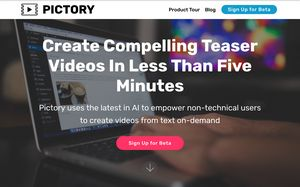
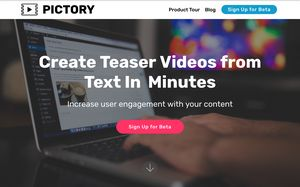
added form
zoho beta

Changed region(s): [[0.12, 0.1872, 0.87, 0.508], [0.12, 0.5348, 0.87, 0.8289]]

diff --git a/zoho-beta.html b/zoho-beta.html
@@ -72,303 +72,11 @@
     </nav>
 </section>
 
-<section class="engine"><a href="https://mobirise.info/e">make your own website</a></section><div id="custom-html-2n"><!-- Type valid HTML here -->
-!--Zoho Campaigns Web-Optin Form's Header Code Starts Here--&gt;
+<section class="engine"><a href="https://mobirise.info/v">free html templates</a></section><div id="custom-html-2p"><!-- Type valid HTML here -->
 
-<meta content="width=device-width,initial-scale=1.0, maximum-scale=1.0, user-scalable=0" name="viewport">
-<script type="text/javascript" src="https://bsau.maillist-manage.com/js/optin.min.js" onload="setupSF('sfdd078da0e9f3d8712321bc73102a2920e9338e26dd31f874','ZCFORMVIEW',false,'acc',false,'2')"></script>
-<script type="text/javascript">
-	function runOnFormSubmit_sfdd078da0e9f3d8712321bc73102a2920e9338e26dd31f874(th){
-		/*Before submit, if you want to trigger your event, "include your code here"*/
-	};
-</script>
-
-<style>
-#sfdd078da0e9f3d8712321bc73102a2920e9338e26dd31f874 #customForm *:not(.dateClass){
--webkit-box-sizing: border-box !important;
--moz-box-sizing: border-box !important;
-box-sizing: border-box !important;
-word-break:break-word;
-overflow-wrap: break-word;
-}
-#sfdd078da0e9f3d8712321bc73102a2920e9338e26dd31f874 .dateClass{
--webkit-box-sizing: unset!important;
--moz-box-sizing: unset !important;
-box-sizing: unset !important;
-word-break:break-word;
-overflow-wrap: break-word;
-}
-/*** RESPONSIVE START */
-@media only screen and (max-width: 319px){
-#sfdd078da0e9f3d8712321bc73102a2920e9338e26dd31f874 #signupMainDiv{
-width:220px !important;
-min-width:220px !important;
-margin: 0px auto !important;
-}
-#sfdd078da0e9f3d8712321bc73102a2920e9338e26dd31f874 #SIGNUP_PAGE{
-padding:0px !important	
-}
-#sfdd078da0e9f3d8712321bc73102a2920e9338e26dd31f874 [changeitem="SIGNUP_FORM_FIELD"]{
-width:94% !important;
-}
-#sfdd078da0e9f3d8712321bc73102a2920e9338e26dd31f874 .zcinputbox{
-width:100% !important;
-max-width:100% !important;
-float:none !important;
-}
-#sfdd078da0e9f3d8712321bc73102a2920e9338e26dd31f874 #captchaDiv{
-width:69.5% !important;
-}
-#sfdd078da0e9f3d8712321bc73102a2920e9338e26dd31f874 #relCaptcha{
-margin-right:11px !important;
-}
-#sfdd078da0e9f3d8712321bc73102a2920e9338e26dd31f874 .recaptcha{
-transform:scale(0.55);-webkit-transform:scale(0.55);transform-origin:0 0;-webkit-transform-origin:0 0;}
-}
-/*Major Mobiles*/
-@media screen and (min-width: 320px) and (max-width: 580px){
-#sfdd078da0e9f3d8712321bc73102a2920e9338e26dd31f874 #signupMainDiv{
-width:280px !important;
-min-width:280px !important;
-margin: 0px auto !important;
-}
-#sfdd078da0e9f3d8712321bc73102a2920e9338e26dd31f874 .zcinputbox{
-width:100% !important;
-max-width:100% !important;
-float:none !important;
-}
-#sfdd078da0e9f3d8712321bc73102a2920e9338e26dd31f874 [changeitem="SIGNUP_FORM_FIELD"]{
-width:95% !important;
-}
-#sfdd078da0e9f3d8712321bc73102a2920e9338e26dd31f874 #captchaDiv{
-width:72% !important;
-}
-#sfdd078da0e9f3d8712321bc73102a2920e9338e26dd31f874 #captchaText{
-width:96% !important;
-}
-#sfdd078da0e9f3d8712321bc73102a2920e9338e26dd31f874 #relCaptcha{
-margin-right:6px !important;
-}
-#sfdd078da0e9f3d8712321bc73102a2920e9338e26dd31f874 #capRequired{
-margin-right: -10px !important;
-}
-#sfdd078da0e9f3d8712321bc73102a2920e9338e26dd31f874 .recaptcha{
-transform:scale(0.72);-webkit-transform:scale(0.75);transform-origin:0 0;-webkit-transform-origin:0 0;}
-}
-@media screen and (min-width:581px) and (max-width: 767px){
-#sfdd078da0e9f3d8712321bc73102a2920e9338e26dd31f874 #signupMainDiv{
-width:440px !important;
-min-width:440px !important;
-margin: 0px auto !important;
-}
-#sfdd078da0e9f3d8712321bc73102a2920e9338e26dd31f874 .zcinputbox{
-width:100% !important;
-max-width:100% !important;
-float:none !important;
-}
-#sfdd078da0e9f3d8712321bc73102a2920e9338e26dd31f874 [changeitem="SIGNUP_FORM_FIELD"]{
-width:95% !important;
-}
-#sfdd078da0e9f3d8712321bc73102a2920e9338e26dd31f874 #captchaDiv{
-width:84.4% !important;
-}
-#sfdd078da0e9f3d8712321bc73102a2920e9338e26dd31f874 #captchaText{
-width:96% !important;
-}
-#sfdd078da0e9f3d8712321bc73102a2920e9338e26dd31f874 #relCaptcha{
-margin-right:14px !important;
-}
-#sfdd078da0e9f3d8712321bc73102a2920e9338e26dd31f874 #capRequired{
-margin-right: -10px !important;
-}
-#sfdd078da0e9f3d8712321bc73102a2920e9338e26dd31f874 .recaptcha{
-transform:scale(1.13);-webkit-transform:scale(1.0);margin-bottom:40px;transform-origin:0 0;-webkit-transform-origin:0 0;}
-}
-/* Desktops and laptops ----------- */
-@media only screen  and (min-width : 1025px) {
-#sfdd078da0e9f3d8712321bc73102a2920e9338e26dd31f874 #signupMainDiv{
-width:600px !important;
-min-width:600px !important;
-margin: 0px auto !important;	
-}
-#sfdd078da0e9f3d8712321bc73102a2920e9338e26dd31f874 .recaptcha{
-transform:scale(1.03);-webkit-transform:scale(1.08);transform-origin:0 0;-webkit-transform-origin:0 0;}
-}
-/* Large Screens */
-@media only screen  and (min-width : 1824px) {
-#sfdd078da0e9f3d8712321bc73102a2920e9338e26dd31f874 #signupMainDiv{
-width:600px !important;
-min-width:600px !important;
-margin: 0px auto !important;	
-}
-#sfdd078da0e9f3d8712321bc73102a2920e9338e26dd31f874 .recaptcha{
-transform:scale(1.03);-webkit-transform:scale(1.08);transform-origin:0 0;-webkit-transform-origin:0 0;}
-}
-@media only screen and (min-device-width: 1200px) and (max-device-width:1200px){
-#sfdd078da0e9f3d8712321bc73102a2920e9338e26dd31f874 #signupMainDiv{
-width:600px !important;
-min-width:600px !important;
-margin: 0px auto !important;
-}
-}
-/* iPads*/
-@media only screen and (min-width : 768px) and (max-width : 1024px){
-#sfdd078da0e9f3d8712321bc73102a2920e9338e26dd31f874 #signupMainDiv{
-width:500px !important;
-min-width:240px !important;
-margin: 0px auto !important;
-}
-#sfdd078da0e9f3d8712321bc73102a2920e9338e26dd31f874 #captchaDiv{
-width:86.8% !important;
-}
-#sfdd078da0e9f3d8712321bc73102a2920e9338e26dd31f874 #relCaptcha{
-margin-right:12px !important;
-}
-#sfdd078da0e9f3d8712321bc73102a2920e9338e26dd31f874 .recaptcha{
-transform:scale(0.90);-webkit-transform:scale(0.90);transform-origin:50% 50%;-webkit-transform-origin:0 0;}
-}
-/*** RESPONSIVE END */
-#sfdd078da0e9f3d8712321bc73102a2920e9338e26dd31f874 .bdr_btm_hover{background-color:#f9f9f9; padding:10px;}
-#sfdd078da0e9f3d8712321bc73102a2920e9338e26dd31f874 .bdr_btm{padding:10px }
-#sfdd078da0e9f3d8712321bc73102a2920e9338e26dd31f874 .f14{font-size:14px}
-
-</style>
-
-<!--Zoho Campaigns Web-Optin Form's Header Code Ends Here--><!--Zoho Campaigns Web-Optin Form Starts Here-->
-
-<div id="sfdd078da0e9f3d8712321bc73102a2920e9338e26dd31f874" data-type="signupform">
-	<div id="customForm">
-		<input type="hidden" id="recapTheme" value="2">
-		<input type="hidden" id="isRecapIntegDone" value="false">
-		<input type="hidden" id="recapMode" value="657605000000069158">
-		<input type="hidden" id="signupFormType" value="LargeForm_Vertical">
-		<div name="SIGNUP_PAGE" id="SIGNUP_PAGE" class="SIGNUP_PAGE large_form_2_css" style="background-color: rgb(102, 102, 102); color: rgb(204, 204, 204); padding: 30px; font-size: 14px; font-family: Arial; min-width: 240px; text-align: center;">
-			<div>
-				<div name="" changeid="" changename="" style="margin:0px auto">
-					<div id="imgBlock" name="LOGO_DIV" logo="true" style="width: 600px; margin: 0px auto; padding-top: 10px; padding-bottom: 10px; padding-right: 10px; text-align: left;"></div>
-				</div>
-				<br>
-				<div id="signupMainDiv" style="margin: 0px auto; width: 100%; min-width: 230px; max-width: 600px;" name="SIGNUPFORM" changeid="SIGNUPFORM" changename="SIGNUPFORM">
-					<div>
-						<div style="position:relative;">
-							<div id="Zc_SignupSuccess" style="display:none;position:absolute;margin-left:4%;width:90%;background-color: white; padding: 3px; border: 3px solid rgb(194, 225, 154);  margin-top: 10px;margin-bottom:10px;word-break:break-all">
-								<table width="100%" cellpadding="0" cellspacing="0" border="0">
-									<tbody>
-										<tr>
-											<td width="10%">
-												<img class="successicon" src="https://bsau.maillist-manage.com/images/challangeiconenable.jpg" align="absmiddle">
-											</td>
-											<td>
-												<span id="signupSuccessMsg" style="color: rgb(73, 140, 132); font-family: sans-serif; font-size: 14px;word-break:break-word">&nbsp;&nbsp;Thank you for Signing Up</span>
-											</td>
-										</tr>
-									</tbody>
-								</table>
-							</div>
-						</div>
-						<form method="POST" id="zcampaignOptinForm" style="margin:0px;" action="https://bsau.maillist-manage.com/weboptin.zc" target="_zcSignup">
-							<div id="SIGNUP_BODY_ALL" name="SIGNUP_BODY_ALL" style="border: 1px none rgb(218, 216, 216);">
-								<h1 style="color: rgb(255, 255, 255); background-color: rgb(153, 153, 153); word-break: break-word; overflow-wrap: break-word; margin: 0px; padding: 20px; font-family: Arial; border-width: 1px; border-style: none; border-color: rgb(28, 69, 135); font-size: 17px; text-align: center;" id="SIGNUP_HEADING" name="SIGNUP_HEADING" changeid="SIGNUP_MSG" changetype="SIGNUP_HEADER">Pictory is in limited Beta now. Please sign up for Beta here.</h1>
-								<div style="background-color: rgb(255, 255, 255); color: rgb(68, 68, 68); padding: 20px; bottom: 2px; font-size: 11px; font-family: Arial; text-align: center; opacity: 1;" id="SIGNUP_BODY" name="SIGNUP_BODY">
-									<div style="margin:0px auto;text-align:left;">
-										<div style="line-height:1.6;" class="" changeid="SIGNUP_MSG" id="SIGNUP_DESCRIPTION" changetype="SIGNUP_DESCRIPTION"></div>
-										<div style="display:none;background-color:#FFEBE8;padding:10px 10px; color:#d20000; font-size:11px; margin:10px 0px;border:solid 1px #ffd9d3; margin-top:20px;" id="errorMsgDiv">&nbsp;&nbsp;Please correct the marked field(s) below.</div>
-										<div>
-											<div style="font-size:12px;  margin-top:10px;" name="fieldsdivSf" class="zcsffieldsdiv">
-												<div style="padding:10px 0px 10px 0px;" class="zcsffield " fieldid="657605000000000021">
-													<div style="">
-														<div style="color: rgb(51, 51, 51); font-size: 12px; font-family: Arial;" name="SIGNUP_FORM_LABEL">Email&nbsp;
-															<span name="SIGNUP_REQUIRED" style="color: rgb(180, 0, 0); font-size: 11px; font-family: Arial, Helvetica, sans-serif;">*</span>
-														</div>
-														<div style="width:100%;  min-width:170px; margin-top:5px;"><!-- check to mark emailid field as type email, and other mandatory fields as type required -->
-															<input name="CONTACT_EMAIL" changeitem="SIGNUP_FORM_FIELD" style="width: 97%; color: rgb(68, 68, 68); background-color: rgb(255, 255, 255); height: 28px; padding: 2px; border: 1px solid rgb(222, 222, 222); font-family: Arial; text-indent: 5px; box-sizing: border-box; font-size: 12px;" maxlength="100" type="email" required="true" value="">
-															<span style="display:none" id="dt_CONTACT_EMAIL">1,true,6,Contact Email,2</span>
-														</div>
-													</div>
-													
-													
-													<div style="clear:both"></div>
-												
-												
-												</div>
-												<div style="padding:10px 0px 10px 0px;" class="zcsffield " fieldid="657605000000000023">
-													<div style="">
-														<div style="color: rgb(51, 51, 51); font-size: 12px; font-family: Arial;" name="SIGNUP_FORM_LABEL">First Name&nbsp;</div>
-														<div style="width:100%;  min-width:170px; margin-top:5px;"><!-- check to mark emailid field as type email, and other mandatory fields as type required -->
-															<input name="FIRSTNAME" changeitem="SIGNUP_FORM_FIELD" style="width: 97%; color: rgb(68, 68, 68); background-color: rgb(255, 255, 255); height: 28px; padding: 2px; border: 1px solid rgb(222, 222, 222); font-family: Arial; text-indent: 5px; box-sizing: border-box; font-size: 12px;" maxlength="100" type="text" value="">
-															<span style="display:none" id="dt_FIRSTNAME">1,false,1,First Name,2</span>
-														</div>
-													</div><div style="clear:both"></div></div>
-												<div style="padding:10px 0px 10px 0px;" class="zcsffield " fieldid="657605000000000025">
-													<div style="">
-														<div style="color: rgb(51, 51, 51); font-size: 12px; font-family: Arial;" name="SIGNUP_FORM_LABEL">Last Name&nbsp;</div>
-														<div style="width:100%;  min-width:170px; margin-top:5px;"><!-- check to mark emailid field as type email, and other mandatory fields as type required -->
-															<input name="LASTNAME" changeitem="SIGNUP_FORM_FIELD" style="width: 97%; color: rgb(68, 68, 68); background-color: rgb(255, 255, 255); height: 28px; padding: 2px; border: 1px solid rgb(222, 222, 222); font-family: Arial; text-indent: 5px; box-sizing: border-box; font-size: 12px;" maxlength="100" type="text" value="">
-															<span style="display:none" id="dt_LASTNAME">1,false,1,Last Name,2</span>
-														</div>
-													</div><div style="clear:both"></div></div>
-											</div><!-- Captcha for Signup -->
-											<div class="recaptcha" style="padding: 10px 0px 10px 10px;display:none " id="captchaOld" name="captchaContainer">
-												<div style="">
-													<div style="width: 59%; float: left; min-width: 170px; max-width: 70%;" id="captchaParent">
-														<img src="assets/images/refresh-icon.png" style="cursor: pointer;float:right;margin-right:4px" onclick="loadCaptcha('https://campaigns.zoho.com/campaigns/CaptchaVerify.zc?mode=generate',this);" id="relCaptcha">
-														<div id="captchaDiv" captcha="true" name="" style="padding: 20px;background:#fff;border: 1px solid rgb(222, 222, 222);box-sizing: border-box;width:98.8%"></div>
-														<input placeholder="Captcha" id="captchaText" name="captchaText" changeitem="SIGNUP_FORM_FIELD" style="margin-top: 5px; width: 98.7%; color: rgb(68, 68, 68); background-color: rgb(255, 255, 255); height: 28px; padding: 2px; border: 1px solid rgb(222, 222, 222); font-family: Arial; text-indent: 5px; box-sizing: border-box; font-size: 12px;" maxlength="100" type="text">
-														<span name="SIGNUP_REQUIRED" id="capRequired" style="color: rgb(180, 0, 0); margin-top: -16px; margin-right: -2px; float: right; font-size: 11px; font-family: Arial, Helvetica, sans-serif;">*</span>
-													</div>
-												</div>
-												<div style="clear: both"></div>
-											</div><!-- <script>var captchaPath =  "https://campaigns.zoho.com/campaigns/CaptchaVerify.zc?mode=generate";var elm = $("#captchaDiv");loadCaptcha(captchaPath,elm);</script>-->
-											<input type="hidden" id="secretid" value="6LdNeDUUAAAAAG5l7cJfv1AA5OKLslkrOa_xXxLs"><!-- Captcha for Signup End--><!-- Other Lists Subscription Start--><!-- Other Lists Subscription End-->
-											<div style=" border-bottom:#ebebeb dotted 1px; margin-top:10px; clear:both;"></div>
-											<div id="REQUIRED_FIELD_TEXT" changetype="REQUIRED_FIELD_TEXT" name="SIGNUP_REQUIRED" style="color: rgb(180, 0, 0); padding: 10px 10px 10px 0px; font-size: 11px; font-family: Arial, Helvetica, sans-serif;">*Required Fields</div>
-											<div name="privacyPolicy" style=" padding:10px;width:100%;position:relative">
-												<input type="checkbox" style="vertical-align:middle" name="PRIVACY_POLICY" value="PRIVACY_AGREED">
-												<span style="vertical-align:middle;margin-left:5px">I agree to the&nbsp;
-													<a href="https://www.pictory.ai/policy.html" target="_blank" style="text-decoration:none">Privacy Policy</a>&nbsp;and&nbsp;
-													<a href="https://www.pictory.ai/terms.html" target="_blank" style="text-decoration:none">Terms of Use</a>&nbsp;</span>
-											</div>
-											<div style="padding:10px; text-align:center;">
-												<input type="submit" action="Save" id="zcWebOptin" name="SIGNUP_SUBMIT_BUTTON" changetype="SIGNUP_SUBMIT_BUTTON_TEXT" style="cursor: pointer; -webkit-appearance: none; color: rgb(255, 255, 255); background-color: rgb(7, 55, 99); background-position: center bottom; background-repeat: repeat-x; outline: none medium; font-family: Arial; border-radius: 3px; font-size: 14px; border-color: rgb(7, 55, 99); border-width: 5px; border-style: solid; padding: 5px 15px; text-align: center;" value="Submit Request">
-											</div><!-- Do not edit the below Zoho Campaigns hidden tags -->
-											<input type="hidden" id="fieldBorder" value="">
-											<input type="hidden" name="zc_trackCode" id="zc_trackCode" value="ZCFORMVIEW" onload="">
-											<input type="hidden" name="viewFrom" id="viewFrom" value="URL_ACTION">
-											<input type="hidden" id="submitType" name="submitType" value="optinCustomView">
-											<input type="hidden" id="lD" name="lD" value="192048436b85fc66">
-											<input type="hidden" name="emailReportId" id="emailReportId" value="">
-											<input type="hidden" name="zx" id="cmpZuid" value="12a5c4492">
-											<input type="hidden" name="zcvers" value="3.0">
-											<input type="hidden" name="oldListIds" id="allCheckedListIds" value="">
-											<input type="hidden" id="mode" name="mode" value="OptinCreateView">
-											<input type="hidden" id="zcld" name="zcld" value="192048436b85fc66">
-											<input type="hidden" id="zctd" name="zctd" value="">
-											<input type="hidden" id="document_domain" value="">
-											<input type="hidden" id="zc_Url" value="bsau.maillist-manage.com">
-											<input type="hidden" id="new_optin_response_in" value="0">
-											<input type="hidden" id="duplicate_optin_response_in" value="0">
-											<input type="hidden" id="zc_formIx" name="zc_formIx" value="dd078da0e9f3d8712321bc73102a2920e9338e26dd31f874"><!-- End of the campaigns hidden tags --></div>
-									</div>
-									<input type="hidden" id="isCaptchaNeeded" value="false">
-									<input type="hidden" id="superAdminCap" value="0">
-									<img src="https://bsau.maillist-manage.com/images/spacer.gif" onload="referenceSetter(this)" id="refImage" style="display:none;">
-								</div>
-							</div>
-						</form>
-					</div>
-				</div>
-			</div>
-		</div>
-	</div>
-</div>
-<div id="zcOptinOverLay" oncontextmenu="return false" style="display:none;text-align: center; background-color: rgb(0, 0, 0); opacity: 0.5; z-index: 100; position: fixed; width: 100%; top: 0px; left: 0px; height: 988px;"></div>
-<div id="zcOptinSuccessPopup" style="display:none;z-index: 9999;width: 800px; height: 40%;top: 84px;position: fixed; left: 26%;background-color: #FFFFFF;border-color: #E6E6E6; border-style: solid; border-width: 1px;  box-shadow: 0 1px 10px #424242;padding: 35px;">
-	<span style="position: absolute;top: -16px;right:-14px;z-index:99999;cursor: pointer;" id="closeSuccess">
-		<img src="https://bsau.maillist-manage.com/images/videoclose.png">
-	</span>
-	<div id="zcOptinSuccessPanel"></div>
-</div>
-</div>
+<div>
+   <iframe frameborder="0" style="height:600px;width:99%;border:none;" src="https://forms.zohopublic.com/pictorycorp/form/BetaSignUp/formperma/XwbKsXoL7qczekDer5LoXMZXbLjGENE6x6fTw5DSwAA"></iframe>
+</div></div>
 
 <section class="footer4 cid-rTrVGtC3mW" id="footer4-2m">
 

diff --git a/beta_signup.html b/beta_signup.html
@@ -72,7 +72,7 @@
     </nav>
 </section>
 
-<section class="engine"><a href="https://mobirise.info/o">free portfolio website templates</a></section><section class="mbr-section form1 cid-rT9JGPLCGd" id="form1-19">
+<section class="engine"><a href="https://mobirise.info/y">free html site templates</a></section><section class="mbr-section form1 cid-rT9JGPLCGd" id="form1-19">
 
     
 
@@ -91,7 +91,7 @@
         <div class="row justify-content-center">
             <div class="media-container-column col-lg-8" data-form-type="formoid">
                 <!---Formbuilder Form--->
-                <form action="https://mobirise.com/" method="POST" class="mbr-form form-with-styler" data-form-title="Mobirise Form"><input type="hidden" name="email" data-form-email="true" value="pK99jzOm1UnQ1Xh2BA52omthRwjeeH/IyUQkkwDGJpp9ZDWs5Gqxr/agQnTDM1buuopsxkbPWAh8MOhsNbrlzM6G2bRpvgJyQCnZxNtFohxnewml9QEvcTCQCV0v/NE6.AuN5eer15KDQn0qd4Jb1KpOnSkHoFZYzU5Zcxy9zOgCU72X8ZalRhKl5304A0H6qVBbzlGZCdHpB2iRv2/jn+hgKYiRZwad1gXh5nxc0u7sLjTBDEdg/ENSR4E81z1l0">
+                <form action="https://mobirise.com/" method="POST" class="mbr-form form-with-styler" data-form-title="Mobirise Form"><input type="hidden" name="email" data-form-email="true" value="FYDBa48X30wW5bJ0zZ080BRHki7SWBDK1PAlzAIgrKILQWuEZHZGOOEog625NCuHIVKNs0TZONvqwoHj9wvVwT0rmllG3nyj5ObKE+7hKBD4NdOFNJ4vZ1RuWomHZvG6.LzwlBvEOFGswQ2Eh3jwIXDq3a598bEmuXDw3QLiwyerHwSUUgQoPXf+oIF9Yjpx+ApxwpYISItFNTMUXott/hltvDmBdkzRZ7NBUqmD0vsNAzAkxkZMqDSaVPaffg2Nl">
                     <div class="row">
                         <div hidden="hidden" data-form-alert="" class="alert alert-success col-12">Thanks for signing up for Pictory Beta. Our team will get back to you with the Beta details shortly.</div>
                         <div hidden="hidden" data-form-alert-danger="" class="alert alert-danger col-12">

diff --git a/assets/mobirise/css/mbr-additional.css b/assets/mobirise/css/mbr-additional.css
@@ -5036,16 +5036,16 @@ section.lazy-placeholder:after {
 .cid-rBBbXkJeIx .dropdown-item:hover {
   color: #767676 !important;
 }
-#custom-html-2n {
+#custom-html-2p {
   /* Type valid CSS here */
 }
-#custom-html-2n div {
-  padding: 0px 0;
+#custom-html-2p div {
+  padding: 80px 0;
   color: #777;
   text-align: center;
 }
-#custom-html-2n p {
-  font-size: 12px;
+#custom-html-2p p {
+  font-size: 15px;
   color: #777;
 }
 .cid-rTrVGtC3mW {

diff --git a/product_tour.html b/product_tour.html
@@ -77,7 +77,7 @@
     </nav>
 </section>
 
-<section class="engine"><a href="https://mobirise.info/a">online website builder</a></section><section class="header8 cid-rTq8NLtqrd mbr-parallax-background" id="header8-1h">
+<section class="engine"><a href="https://mobirise.info/k">how to develop own website</a></section><section class="header8 cid-rTq8NLtqrd mbr-parallax-background" id="header8-1h">
 
     
 

diff --git a/index.html b/index.html
@@ -78,7 +78,7 @@
     </nav>
 </section>
 
-<section class="engine"><a href="https://mobirise.info/x">css templates</a></section><section class="cid-rT90lU1D1A mbr-fullscreen mbr-parallax-background" id="header2-v">
+<section class="engine"><a href="https://mobirise.info/e">make your own website</a></section><section class="cid-rT90lU1D1A mbr-fullscreen mbr-parallax-background" id="header2-v">
 
     
 

diff --git a/page2.html b/page2.html
@@ -72,7 +72,7 @@
     </nav>
 </section>
 
-<section class="engine"><a href="https://mobirise.info/l">free website templates</a></section><section class="mbr-section content5 cid-rSuH1kklVr" id="content5-j">
+<section class="engine"><a href="https://mobirise.info/g">build your own website for free</a></section><section class="mbr-section content5 cid-rSuH1kklVr" id="content5-j">
 
     
 

diff --git a/terms.html b/terms.html
@@ -72,7 +72,7 @@
     </nav>
 </section>
 
-<section class="engine"><a href="https://mobirise.info/i">free site creation software</a></section><div id="custom-html-29"><!-- Type valid HTML here -->
+<section class="engine"><a href="https://mobirise.info/a">online web builder</a></section><div id="custom-html-29"><!-- Type valid HTML here -->
 
 <div>
 <h1>Terms and conditions</h1>

diff --git a/policy.html b/policy.html
@@ -72,7 +72,7 @@
     </nav>
 </section>
 
-<section class="engine"><a href="https://mobirise.info/w">html5 templates</a></section><div id="custom-html-2c"><!-- Type valid HTML here -->
+<section class="engine"><a href="https://mobirise.info/e">how to make your own site for free</a></section><div id="custom-html-2c"><!-- Type valid HTML here -->
 
 <div>
 <h1>Privacy policy</h1>
